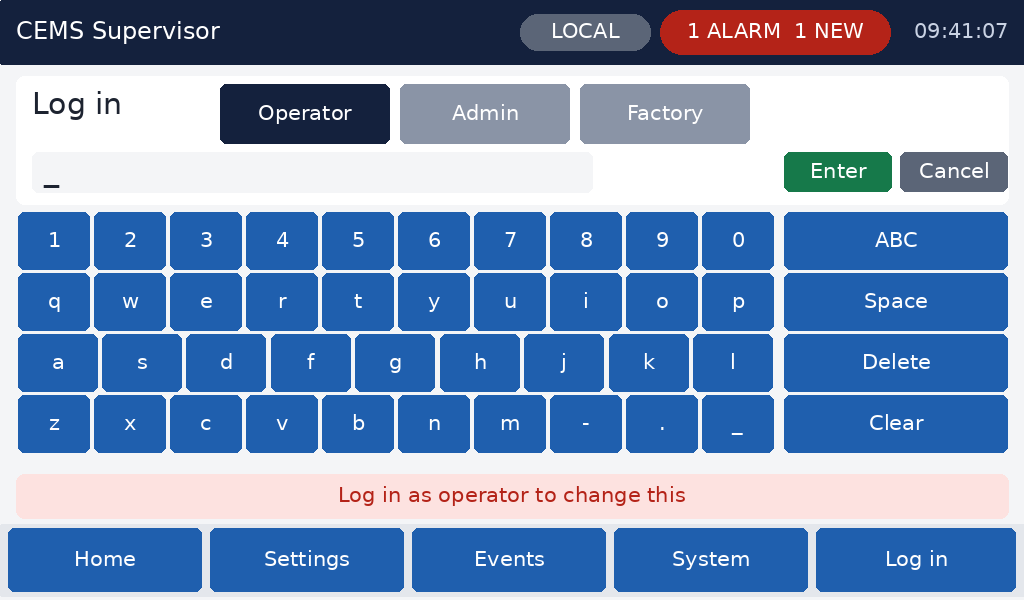
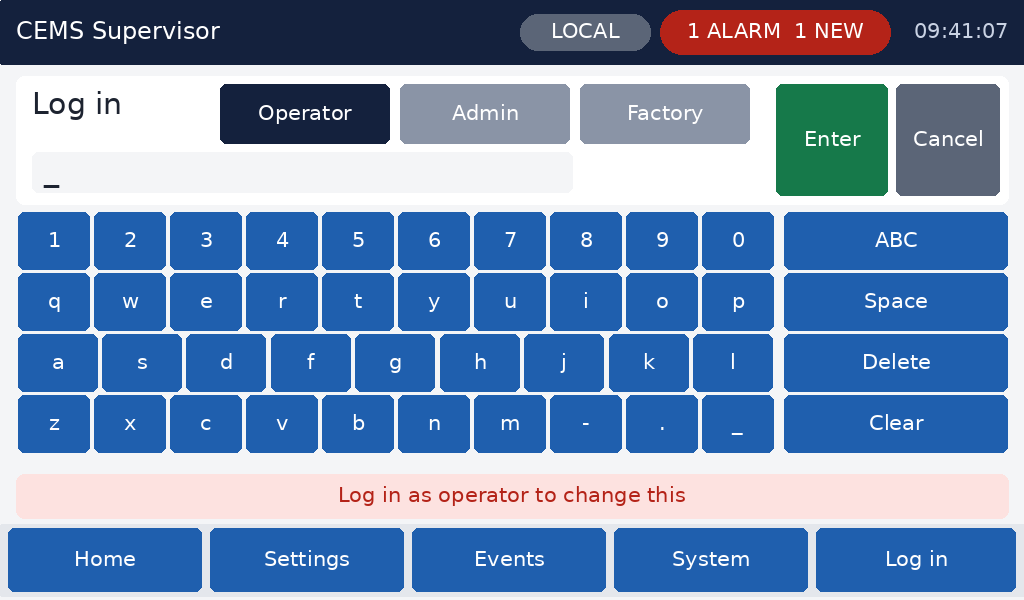
Log in screen: Enter and Cancel as large as the card allows
They were 40 px tall (about 6 mm on the RVT70), the smallest touch target on
any screen; now 112 px, beside the level buttons.

Claude-Session: https://claude.ai/code/session_01AbDXgecyAmn6R8hhL7qjD2

Changed region(s): [[0.75, 0.12, 1.0, 0.33]]

diff --git a/platform/ui/ui.c b/platform/ui/ui.c
@@ -785,12 +785,13 @@ static void draw_login(uint32_t now) {
     char m[40]; size_t n = strlen(U.pw), k = 0;
     for (; k < n && k < 32; ++k) m[k] = '*';
     m[k++] = '_'; m[k] = 0;
-    box(32, BODY_Y + 76, 560, 40, 0xF4F5F7u, 6);
+    box(32, BODY_Y + 76, 540, 40, 0xF4F5F7u, 6);
     color(C_INK);
     text(44, BODY_Y + 96, F_BIG, OPT_CENTERY, m);
-    if (now < U.lock_until) { color(C_BAD); text(610, BODY_Y + 96, F_SMALL, OPT_CENTERY, "Too many attempts: wait"); }
-    button(T_OK, 784, BODY_Y + 76, 108, 40, "Enter", C_OK, now >= U.lock_until);
-    button(T_CANCEL, 900, BODY_Y + 76, 108, 40, "Cancel", 0x5B6577u, true);
+    if (now < U.lock_until) { color(C_BAD); text(584, BODY_Y + 96, F_SMALL, OPT_CENTERY, "Too many attempts: wait"); }
+    /* full card height: 40 px (6 mm on the RVT70) was the smallest target on any screen */
+    button(T_OK, 776, BODY_Y + 8, 112, 112, "Enter", C_OK, now >= U.lock_until);
+    button(T_CANCEL, 896, BODY_Y + 8, 104, 112, "Cancel", 0x5B6577u, true);
     draw_keyboard(BODY_Y + 136, true);
 }
 
